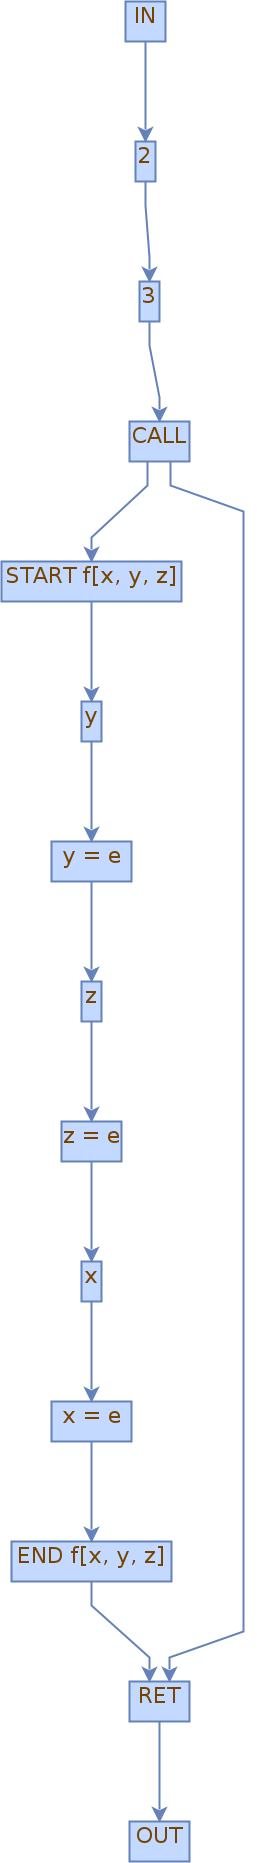
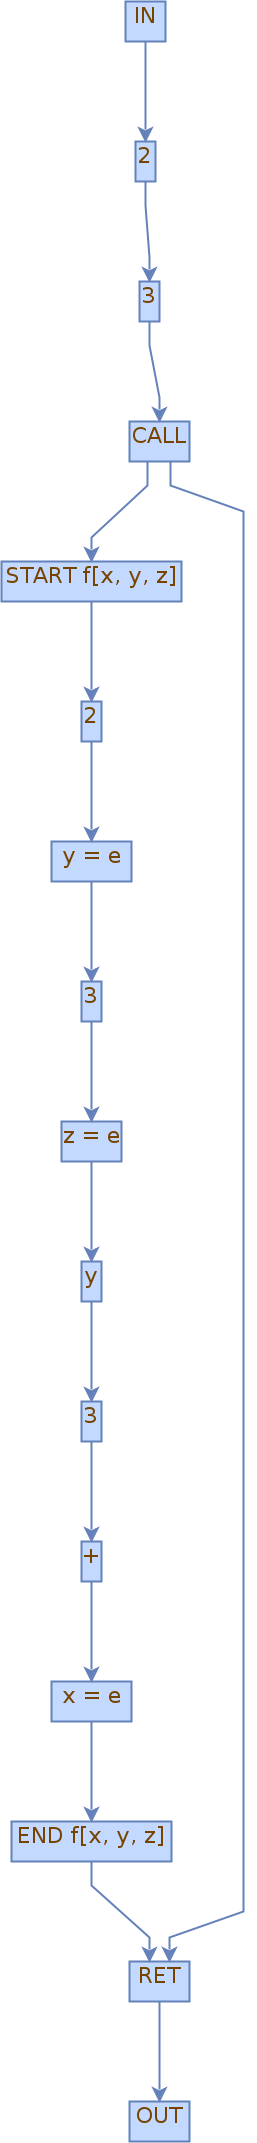
Fixed CFG
- fixed assign node, value of assignment now visible
- fixed assignment of expression, if expresdsion is not a simple id or value

diff --git a/triplac/src/main/kotlin/uap/export/DOTWriter.kt b/triplac/src/main/kotlin/uap/export/DOTWriter.kt
@@ -20,20 +20,26 @@ class DOTWriter {
                 val map: MutableMap<String, Attribute> = LinkedHashMap()
                 val label = if (v.label.isNotBlank()) v.label else if (v.node.attribute != null) v.node.attribute.toString() else throw IllegalArgumentException("Unhandled node type: $v")
 
-                if (v == cfgGraph.cfgIn || v == cfgGraph.cfgOut){
-                    map["shape"] = DefaultAttribute.createAttribute("doublecircle")
-                    map["label"] = DefaultAttribute.createAttribute(label)
-                } else if (label == "diamond") {
-                    map["shape"] = DefaultAttribute.createAttribute(label)
-                    map["label"] = DefaultAttribute.createAttribute("?")
-                } else if (label == "glue") {
-                    map["label"] = DefaultAttribute.createAttribute("")
-                    map["shape"] = DefaultAttribute.createAttribute("point")
-                } else if (label.startsWith("START") || label.startsWith("END") || label.startsWith("CALL") || label.startsWith("RET")) {
-                    map["label"] = DefaultAttribute.createAttribute(label)
-                    map["shape"] = DefaultAttribute.createAttribute("box")
-                } else {
-                    map["label"] = DefaultAttribute.createAttribute(label)
+                when {
+                    (v == cfgGraph.cfgIn || v == cfgGraph.cfgOut) -> {
+                        map["shape"] = DefaultAttribute.createAttribute("doublecircle")
+                        map["label"] = DefaultAttribute.createAttribute(label)
+                    }
+                    (label == "diamond") -> {
+                        map["shape"] = DefaultAttribute.createAttribute(label)
+                        map["label"] = DefaultAttribute.createAttribute("?")
+                    }
+                    (label == "glue") -> {
+                        map["label"] = DefaultAttribute.createAttribute("")
+                        map["shape"] = DefaultAttribute.createAttribute("point")
+                    }
+                    (label.startsWith("START") || label.startsWith("END") || label.startsWith("CALL") || label.startsWith("RET")) -> {
+                        map["label"] = DefaultAttribute.createAttribute(label)
+                        map["shape"] = DefaultAttribute.createAttribute("box")
+                    }
+                    else -> {
+                        map["label"] = DefaultAttribute.createAttribute(label)
+                    }
                 }
                 map
             }

diff --git a/triplac/src/main/kotlin/uap/generator/ControlFlowGraphGenerator.kt b/triplac/src/main/kotlin/uap/generator/ControlFlowGraphGenerator.kt
@@ -173,7 +173,8 @@ class ControlFlowGraphGenerator(private val ast: Node) {
     }
 
     private fun handleAssignNode(node: AssignNode, graph: SimpleDirectedGraph<CFGNode, Edge>): CFG {
-        val result1 = generateCFG(node.children[0], graph)
+        //TODO handle expression of all children not only child 1 ?
+        val result1 = generateCFG(node.children[1], graph)
         Graphs.addGraph(graph, result1.graph)
         val label = node.children.filterIsInstance<IDNode>().first().attribute
         val cfgNode = CFGNode(node, "$label = e")
